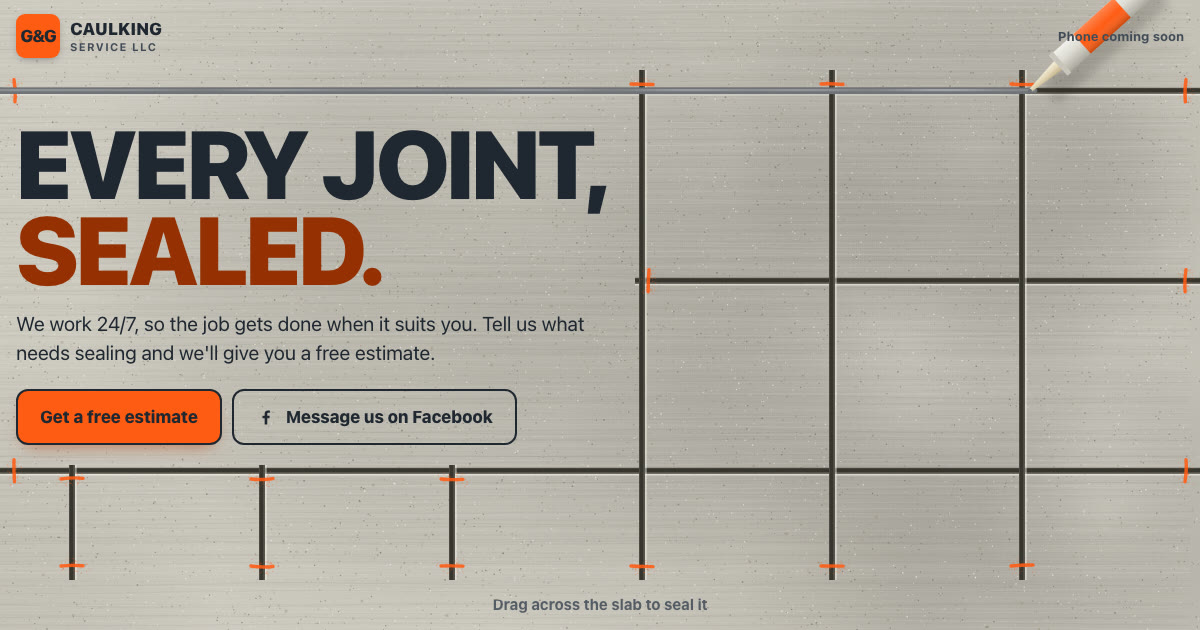
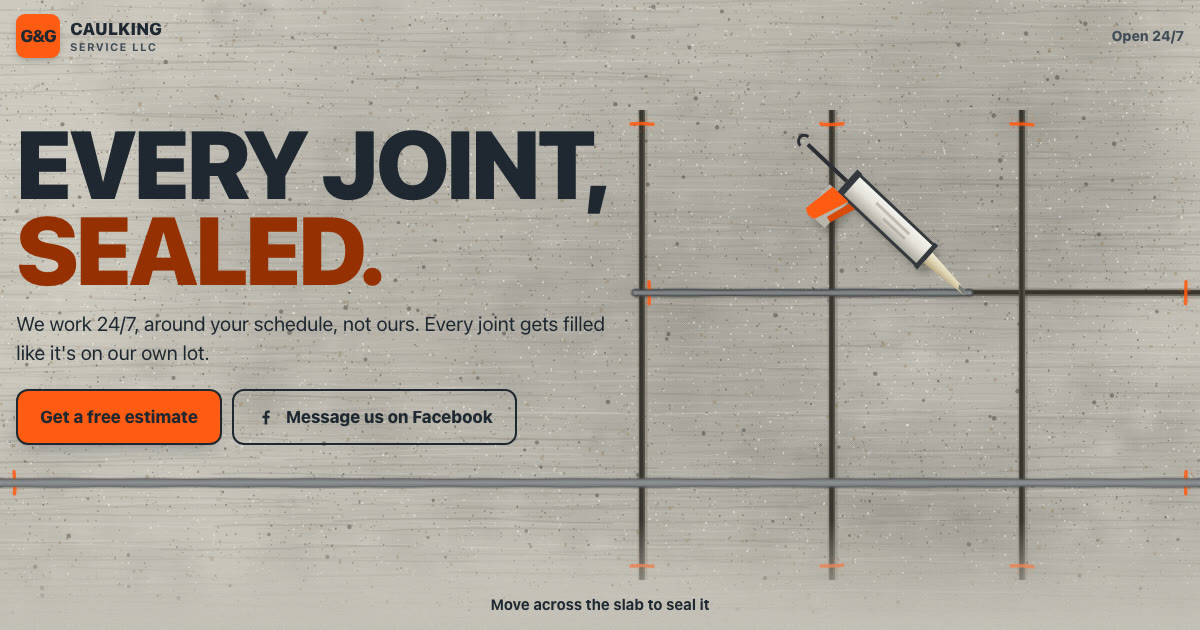
Round-two finish fixes, refreshed share image, handoff updated
Claude-Session: https://claude.ai/code/session_018hCqhEEJW2RvAaBHTayALw

diff --git a/index.html b/index.html
@@ -62,7 +62,7 @@ section{padding:72px 0 72px}
 
 /* ---------- Hero ---------- */
 .hero{position:relative;min-height:clamp(620px,100svh,980px);padding:96px 0 0;overflow:hidden;background:var(--slab) var(--noise)}
-.hero canvas{position:absolute;inset:0;width:100%;height:100%;display:block}
+.hero canvas{position:absolute;inset:0;width:100%;height:100%;display:block;-webkit-mask-image:linear-gradient(to bottom,#000 calc(100% - 110px),transparent);mask-image:linear-gradient(to bottom,#000 calc(100% - 110px),transparent)}
 .hero-copy{position:relative;z-index:2;max-width:640px}
 .hero h1{font-size:clamp(2.9rem,13.2vw,6rem);line-height:.9;letter-spacing:-.035em}
 .hero h1 em{font-style:normal;color:var(--paint-ink)}
@@ -174,8 +174,9 @@ footer .fine{margin-top:20px;font-size:14px;color:#aab2bd}
   .btns{grid-template-columns:auto auto;justify-content:start}
   .mark span{font-size:17px}
   .phone{font-size:18px}
-  .work .grid{grid-template-columns:repeat(3,1fr);gap:9px}
-  .work .sq{aspect-ratio:3/4}
+  .work .grid{grid-template-columns:repeat(5,1fr);grid-auto-rows:clamp(300px,26vw,350px);gap:9px} /* one row: no still shown past its native size */
+  .work .tall,.work .sq{grid-row:auto;aspect-ratio:auto}
+  .work .wide{order:-1}
   .work .wide{grid-column:span 2;aspect-ratio:auto}
   .more{display:inline-flex;padding-right:14px}
   .night figure{max-width:520px;aspect-ratio:4/3}
@@ -189,8 +190,6 @@ footer .fine{margin-top:20px;font-size:14px;color:#aab2bd}
   .night figure{max-width:none}
   .steps ol{grid-template-columns:repeat(3,1fr);gap:28px}
   .steps li:last-child{border-bottom:0}
-  .estimate .wrap{display:grid;grid-template-columns:5fr 7fr;gap:64px;align-items:start}
-  .estimate .wrap>div:first-child{position:sticky;top:48px}
   footer .wrap{display:flex;justify-content:space-between;align-items:flex-end}
 }
 @media (prefers-reduced-motion:reduce){html{scroll-behavior:auto}.btn,.work img,.night img{transition:none}}
@@ -389,9 +388,14 @@ function rng(seed){ return function(){ seed = (seed * 16807) % 2147483647; retur
 function bead(g, xs, ys, n, f, wet, JW, t, ph, off){
   var i = 0;
   function Y(k){ return ys[k] + (off ? off[k] : 0); }
+  // hand-tooled: the bead swells and thins a little along its length
   function run(s, e, width, color, cap){
-    g.strokeStyle = color; g.lineCap = cap ? 'round' : 'butt'; g.lineJoin = 'round';
-    g.lineWidth = width; g.beginPath(); g.moveTo(xs[s], Y(s)); for (var k = s + 1; k <= e; k++) g.lineTo(xs[k], Y(k)); g.stroke();
+    g.strokeStyle = color; g.fillStyle = color; g.lineCap = 'butt';
+    for (var k = s; k < e; k++) {
+      g.lineWidth = width * (1 + 0.07 * Math.sin(k * 0.37 + ph) + 0.04 * Math.sin(k * 0.11 + ph * 2));
+      g.beginPath(); g.moveTo(xs[k] - (xs[k + 1] - xs[k]) * 0.04, Y(k) - (Y(k + 1) - Y(k)) * 0.04); g.lineTo(xs[k + 1], Y(k + 1)); g.stroke();
+    }
+    if (cap) { g.beginPath(); g.arc(xs[s], Y(s), width / 2, 0, 6.29); g.fill(); g.beginPath(); g.arc(xs[e], Y(e), width / 2, 0, 6.29); g.fill(); }
   }
   while (i < n - 1) {
     if (Math.min(f[i], f[i + 1]) < 0.08) { i++; continue; }
@@ -401,7 +405,8 @@ function bead(g, xs, ys, n, f, wet, JW, t, ph, off){
     var c = Math.round(124 - 26 * wv), W = JW * (0.75 + 0.5 * Math.min(1, fv)) + Math.max(0, fv - 1) * 2;
     var cap = true;
     // body: dark edge where it meets the concrete, the bead, then a soft rounded crown
-    run(s, e, W + 1.6, 'rgb(' + (c - 34) + ',' + (c - 32) + ',' + (c - 28) + ')', cap);
+    run(s, e, W + 4, 'rgba(' + (c - 40) + ',' + (c - 38) + ',' + (c - 34) + ',.16)', cap);   // feathered smear onto the concrete
+    run(s, e, W + 1.4, 'rgba(' + (c - 30) + ',' + (c - 28) + ',' + (c - 24) + ',.7)', cap);
     run(s, e, W * 0.82, 'rgb(' + c + ',' + (c + 3) + ',' + (c + 7) + ')', cap);
     run(s, e, W * 0.42, 'rgba(' + (c + 26) + ',' + (c + 29) + ',' + (c + 33) + ',' + (0.55 + 0.25 * wv).toFixed(2) + ')', cap);
     // while wet, a dull shine breathes along it
@@ -475,7 +480,7 @@ function bead(g, xs, ys, n, f, wet, JW, t, ph, off){
     for (i = 0; i < mots; i++) {
       var mx = r() * W, my = r() * H, mr = 8 + r() * 46, md = r() < 0.55;
       var mg = b.createRadialGradient(mx, my, 0, mx, my, mr);
-      mg.addColorStop(0, md ? 'rgba(110,102,90,' + (0.05 + r() * 0.07) + ')' : 'rgba(246,243,236,' + (0.06 + r() * 0.08) + ')'); mg.addColorStop(1, 'rgba(0,0,0,0)');
+      mg.addColorStop(0, md ? 'rgba(110,102,90,' + (0.03 + r() * 0.045) + ')' : 'rgba(246,243,236,' + (0.04 + r() * 0.06) + ')'); mg.addColorStop(1, 'rgba(0,0,0,0)');
       b.fillStyle = mg; b.fillRect(mx - mr, my - mr, mr * 2, mr * 2);
     }
     // Broom finish: broken, wavering drags of uneven spacing and weight
@@ -674,7 +679,7 @@ function bead(g, xs, ys, n, f, wet, JW, t, ph, off){
       if (REDUCED) { f.fill(1); draw(0); }
     }
     function tick(t, dt){
-      if (started && front < n + 4) front += dt * (90 + 70 * Math.sin(t * 2.3)) / 4 * (W < 700 ? 1 : 2.2);
+      if (started && front < n + 4) front += dt * n * (0.9 + 0.35 * Math.sin(t * 2.3)); // runs the width in about a second, then holds full
       for (var i = 0; i < n; i++) { var target = i < front - 6 ? 1 : i < front ? (front - i) / 6 : 0; f[i] += (target - f[i]) * Math.min(1, dt * 8); }
       var r = cv.getBoundingClientRect(), lx = P.x - r.left, ly = P.y - r.top, near = P.active && ly > -40 && ly < H + 40;
       for (i = 0; i < n; i++) {

diff --git a/HANDOFF.md b/HANDOFF.md
@@ -3,16 +3,17 @@
 **Live:** https://10elizabethbell.github.io/ggCaulkingService/ · **Repo:** https://github.com/10elizabethbell/ggCaulkingService · **Built:** 2026-10-17 from Muse brief (run 2026-10-18, thin brief)
 
 ## Contact gap: read this first
-- **No phone number exists anywhere.** The header and footer say "Phone coming soon". When Orlando gives a number, set `PHONE = '9735551234'` at the top of the `<script>` (one line). The header and footer then show a tap-to-call number, and the estimate form sends a pre-filled text message instead of the Facebook hand-off.
-- Until then the form builds the message, copies it (or lets them copy it by hand if the clipboard is blocked, as it can be in Facebook's in-app browser), and offers "Open Facebook to send it", which goes to Orlando's **personal** profile. I didn't use an `m.me/<id>` Messenger link because I couldn't verify it works for personal profiles.
+- **No phone number exists anywhere.** The header's top-right corner, where the number belongs, shows "Open 24/7" for now, and the footer has no phone line. When Orlando gives a number, set `PHONE = '9735551234'` at the top of the `<script>` (one line). The header and footer then show a tap-to-call number, and the estimate form sends a pre-filled text message instead of the Facebook hand-off. I chose "Open 24/7" over a visible "Phone coming soon" so the page reads as finished; swap it back if you'd rather show the gap.
+- Until then the form builds the message, copies it (or lets them copy it by hand if the clipboard is blocked, as it can be in Facebook's in-app browser), and offers "Open Facebook to send it", which goes to Orlando's **personal** profile. Tapping that button copies the message again first, and the message is saved for the session, so coming Back from Facebook brings it back. **Messages from people who aren't his friends land in Facebook's Message Requests folder; make sure he checks it.** I didn't use an `m.me/<id>` Messenger link because I couldn't verify it works for personal profiles.
 - No email, so none appears on the page (the footer has no email line).
 
 ## What's built
 - **World: the marked-up slab.** The page is a broom-finished concrete slab with saw-cut joints, orange layout-paint ticks, chalk-line blue for focus, and grey sealant beads. It comes straight from their job video: a new commercial lot, joints sealed at night and at sunrise.
-- **Signature:** the hero is a canvas slab. A caulk tube seals the joints by itself. Drag a finger or move the mouse and it follows you, laying a bead into whichever joint you're over. Wet sealant runs along the joint and its sheen moves while it cures. Vertical drags work on phones (pull-to-refresh is off and the canvas position is read every frame). When the slab is fully sealed it rests 4s, then a fresh slab starts.
-- **Joints everywhere:** each section divider is a saw cut that fills with sealant when it scrolls into view and dimples under the pointer or finger. The gaps between the work photos fill with sealant too.
-- **Sections:** header (G&G paint block plus name; phone slot top-right) → hero ("Every joint, sealed.", promise, "Get a free estimate" plus an outlined "Message us on Facebook") → Our work (4 stills from their video, then "Click to see more of our work." to Facebook) → Day or night, 24/7 (night still) → How it works (3 steps) → Get a free estimate (form on marking-orange) → footer (name, phone slot, Facebook).
+- **Signature:** the hero is a canvas slab. A caulk gun (with plunger rod and trigger) seals the joints by itself; the rod creeps forward as the slab fills. Drag a finger or move the mouse and it follows you, laying a bead into whichever joint you're over. Wet sealant runs along the joint and its sheen moves while it cures. Vertical drags work on phones (pull-to-refresh is off and the canvas position is read every frame). When the slab is fully sealed it rests 4s, then a fresh slab starts.
+- **Joints everywhere:** each section divider is a saw cut that fills with sealant when it scrolls into view and dimples under the pointer or finger. The gaps between the work photos are grey sealed joints.
+- **Sections:** header (G&G paint block plus name; "Open 24/7" top-right until there's a phone) → hero ("Every joint, sealed.", promise, "Get a free estimate" plus an outlined "Message us on Facebook") → Our work (4 stills from their video, then "Click to see more of our work." to Facebook) → Day or night, 24/7 (night still) → How it works (3 steps) → Get a free estimate (form on marking-orange) → footer (name, phone slot, Facebook).
 - Photos are WebP stills pulled from the Facebook group video (`yt-dlp`), embedded and loaded lazily. Page is ~330KB.
+- Tuning constants sit at the top of the script: joint spacing, nozzle rate, flow, auto speeds (phone 120, desktop 300 px/s), idle time before it runs by itself.
 
 ## Assumptions I made
 - **The work is concrete joint sealing on commercial lots.** I inferred it from the video (saw-cut slab, sealant bucket, new commercial building). The caption only says "caulking". Confirm what else they do (windows, tubs, siding?) before adding a services list. I left services out on purpose (brief: don't invent).
@@ -22,9 +23,9 @@
 - **Service area** is left off the page. Essex County, NJ is inferred only from the referral group. The form asks for the town instead.
 
 ## Placeholders and gaps
-- Phone (header, footer, form destination): "Phone coming soon".
+- Phone (header top-right, footer, form destination): missing; the header shows "Open 24/7" in its place.
 - No logo: the favicon, the home-screen icon (`apple-touch-icon.png`) and the header mark are an orange "G&G" lettering block.
-- Photos are video stills (720px wide). They're sharp enough at phone 2x, but real photos would beat them, especially before/after of a joint.
+- Photos are video stills (720px wide). On desktop the grid is one row, so no still is shown past its native size at 1x, but they're soft on 2x/retina screens. Real photos would beat them, especially a before/after of a joint.
 - No reviews, prices, licensing or insurance (none published; don't claim).
 - The Facebook link goes to a personal profile whose cover photo is a couple's selfie. A G&G business page would be a much better destination.
 
@@ -43,6 +44,11 @@
 - A short muted clip of their video in the 24/7 section (the source is 30s, 720×1280, with unrelated music, so mute it).
 - Services list as short items with arrows, once confirmed (rows: arrow-only hover, per the finishing rules).
 - A caulk-gun trigger "click" squeeze on tap, and the sealant tooling smooth after it's laid.
+
+## Review status
+- Impeccable: every mode except `live` (critique, audit, harden, optimize, polish, layout, typeset, colorize, clarify, adapt, animate, delight, bolder, quieter, distill, overdrive) ran as three parallel reviews; their fixes are applied. The detector is clean (two suppressions in `.impeccable/config.json`: the system font stack, and padding on full-bleed sections). `onboard` and `extract` don't apply to a one-page site.
+- Finish reviewer, round 1 → fix (8 items). Round 2 verdict: 3 resolved; partial were the bead's look, the hero edge against the page ground, the seams sitting half-filled, the desktop grid's soft tall cell, and the dead desktop estimate column. I applied a last batch for all five (feathered, uneven bead; hero slab fades into the ground; seams fill in about a second and hold; one-row desktop grid; stacked estimate), but **no reviewer scored it**: the unattended budget is two rounds.
+- Worth your eye: whether the sealant bead reads as caulk at 1x, and how heavy the slab mottling is.
 
 ## Not verified
 - Real-device touch (tested with simulated touch in headless Chrome: a vertical drag sealed the joint under it).
